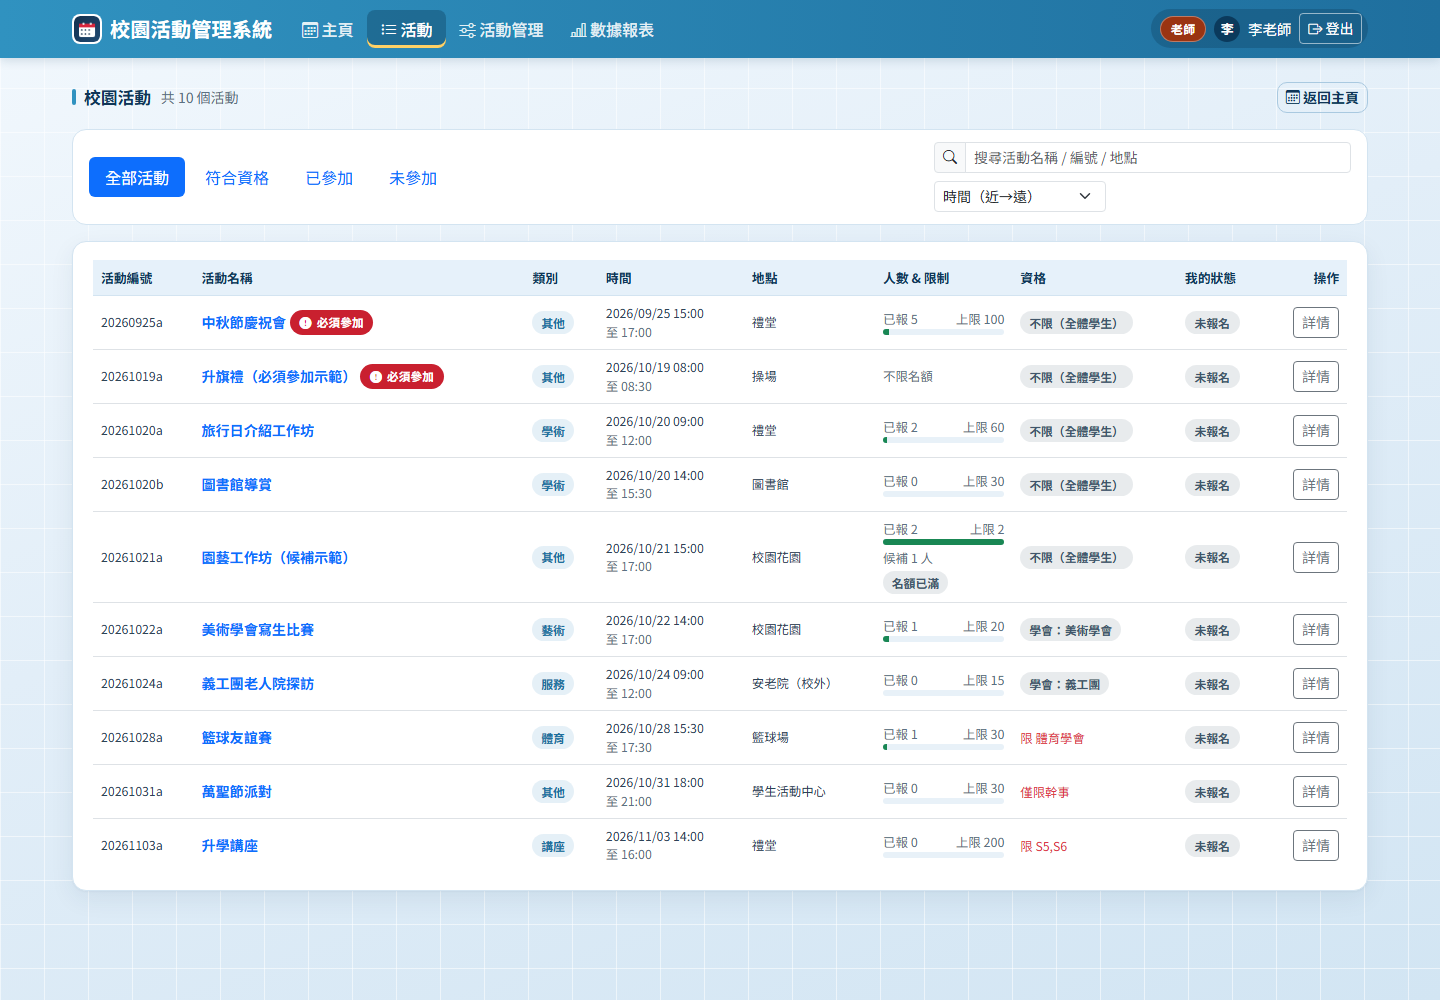
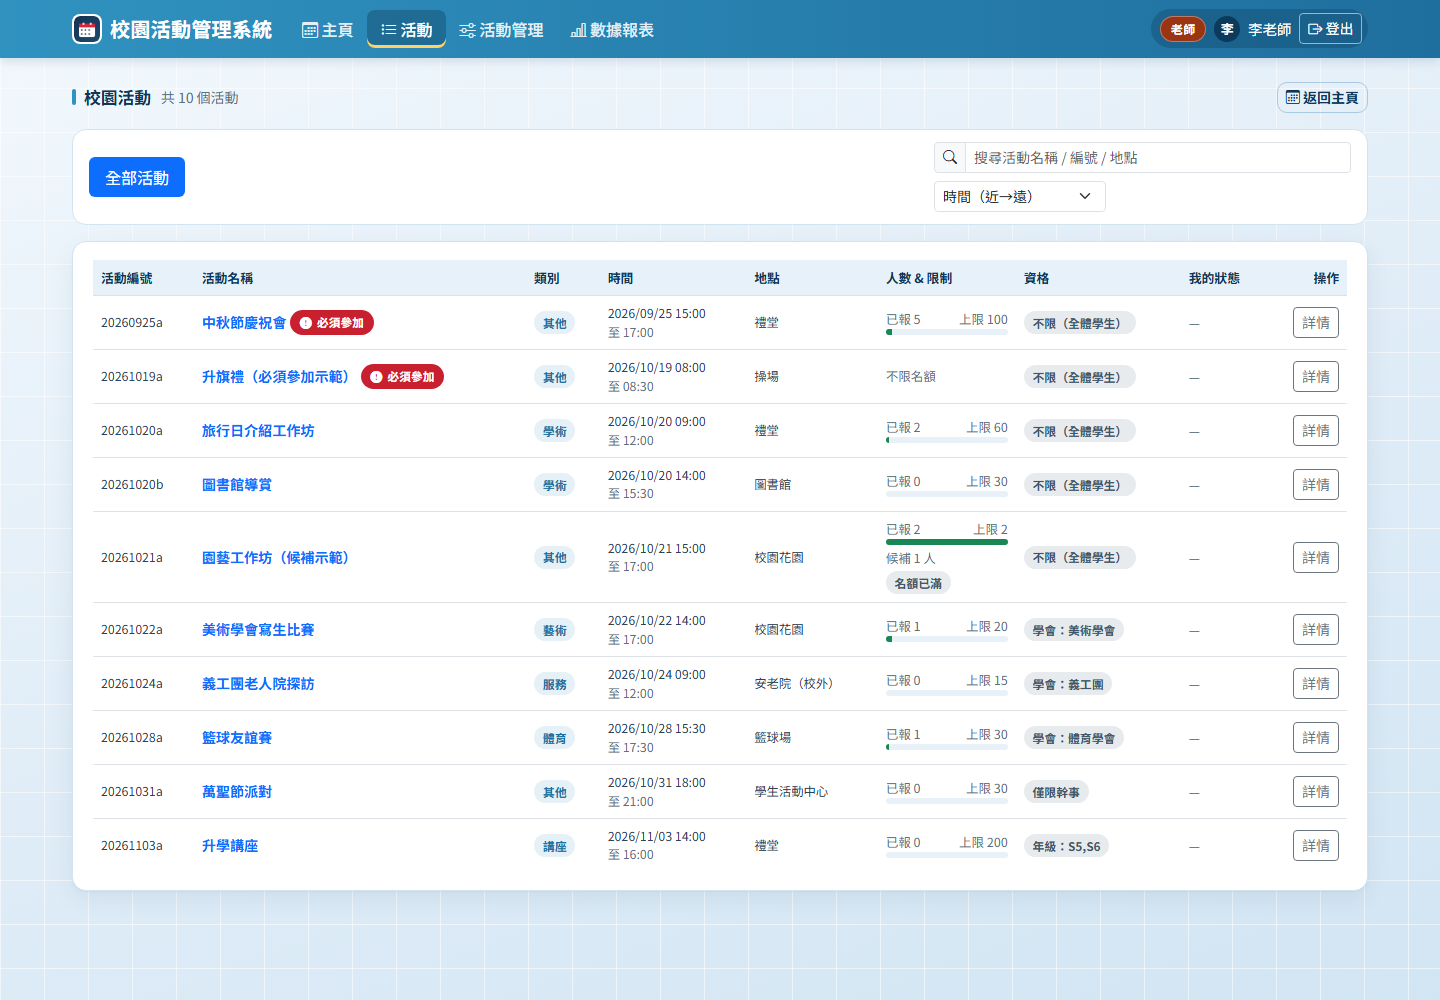
feat(v1.2.1): 老師視角統計卡與活動列表、手機版後台清單免橫向滑動、詳情頁資格文案

diff --git a/1-frontend/assets/js/event.js b/1-frontend/assets/js/event.js
@@ -214,6 +214,12 @@
     CES_UI.renderNav('events');
 
     var tabs = document.getElementById('eventTabs');
+    /* v1.2：非學生帳號沒有「報名」概念，隱藏 符合資格／已參加／未參加 三個 Tab */
+    if (tabs && !isStudentUser(user)) {
+      Array.prototype.forEach.call(tabs.querySelectorAll('[data-tab]'), function (b) {
+        if (b.getAttribute('data-tab') !== 'all') b.classList.add('d-none');
+      });
+    }
     if (tabs) {
       tabs.addEventListener('click', function (ev) {
         var btn = ev.target.closest('[data-tab]');
@@ -375,12 +381,19 @@
   }
 
   function myStatusCell(e) {
+    /* v1.2：老師／管理員不參與報名，沒有「我的狀態」 */
+    if (!isStudentUser(listState.user)) return '<span class="muted small">—</span>';
     if (!isActive(e)) return '<span class="badge-status is-cancelled">已取消</span>';
     return CES_UI.statusBadge(e.myStatus);
   }
 
   function eligibilityCell(e) {
     if (!isActive(e)) return '<span class="muted small">—</span>';
+    /* v1.2：資格限制是給學生看的；老師／管理員只顯示規則文字，不標紅「不符合資格」 */
+    if (!isStudentUser(listState.user)) {
+      var staffRules = eligibilityRules(e);
+      return '<span class="tag tag-soft" title="' + esc(staffRules) + '">' + esc(staffRules) + '</span>';
+    }
     if (e.isEligible === false) {
       var reason = e.eligibleReason || '不符合資格';
       return '<span class="small text-danger" title="' + esc(reason) + '">' + esc(reason) + '</span>';
@@ -459,11 +472,15 @@
   }
 
   function eventCardHtml(e) {
-    var statusHtml = isActive(e) ? CES_UI.statusBadge(e.myStatus) :
-      '<span class="badge-status is-cancelled">已取消</span>';
+    var statusHtml = isStudentUser(listState.user)
+      ? (isActive(e) ? CES_UI.statusBadge(e.myStatus) :
+        '<span class="badge-status is-cancelled">已取消</span>')
+      : '';
     var flags = '';
     if (isActive(e) && e.isFull) flags += '<span class="tag tag-soft">名額已滿</span>';
-    if (isActive(e) && e.isEligible === false) flags += '<span class="tag tag-soft">不符合資格</span>';
+    if (isActive(e) && isStudentUser(listState.user) && e.isEligible === false) {
+      flags += '<span class="tag tag-soft">不符合資格</span>';
+    }
 
     return '<div class="ces-card ces-event-card">' +
       '<div class="card-cover"></div>' +
@@ -629,23 +646,35 @@
         ? '<span class="badge-status is-cancelled">不符合資格</span>'
         : '<span class="badge-status is-confirmed">符合資格</span>';
 
+      var eligibilityRow;
+      if (!isStudentUser(detailState.user)) {
+        /* v1.2：老師／管理員只看到資格規則，不顯示「符合／不符合資格」 */
+        eligibilityRow = esc(eligibilityRules(e));
+      } else {
+        eligibilityRow = esc(eligibilityRules(e)) + ' ' + eligState +
+          (e.isEligible === false && e.eligibleReason
+            ? '<div class="small text-danger mt-1">' + esc(e.eligibleReason) + '</div>' : '');
+      }
+
+      var statusRow = live
+        ? '<span class="badge-status is-confirmed">' +
+          (isStudentUser(detailState.user) ? '開放報名' : '開放中') + '</span>'
+        : '<span class="badge-status is-cancelled">已取消</span>';
+
       infoBody.innerHTML =
         infoRow('活動編號', esc(e.eventID)) +
         infoRow('類別', e.category ? '<span class="tag">' + esc(e.category) + '</span>' : '<span class="muted">—</span>') +
         infoRow('參加性質', isMandatory(e) ? mandatoryBadge(e) +
           '<span class="muted small ms-2">老師點名，系統已自動報名，不可取消</span>' :
           '<span class="muted">自願報名</span>') +
-        infoRow('狀態', live ? '<span class="badge-status is-confirmed">開放報名</span>' :
-          '<span class="badge-status is-cancelled">已取消</span>') +
+        infoRow('狀態', statusRow) +
         infoRow('負責老師', esc(e.hostName || e.hostID || '—') +
           (e.hostID ? '<span class="muted small">（' + esc(e.hostID) + '）</span>' : '')) +
         infoRow('報名時間', esc(CES_UI.fmtDT(e.regStart)) + ' 至 ' + esc(CES_UI.fmtDT(e.regEnd))) +
         infoRow('活動時間', esc(CES_UI.fmtDT(e.eventStart)) + ' 至 ' + esc(CES_UI.fmtDT(e.eventEnd))) +
         infoRow('地點', esc(e.location)) +
         infoRow('名額', quotaBlockHtml(e)) +
-        infoRow('資格條件', esc(eligibilityRules(e)) + ' ' + eligState +
-          (e.isEligible === false && e.eligibleReason
-            ? '<div class="small text-danger mt-1">' + esc(e.eligibleReason) + '</div>' : '')) +
+        infoRow('資格條件', eligibilityRow) +
         infoRow('簡介', '<div class="text-break">' + description + '</div>');
     }
 

diff --git a/1-frontend/assets/js/admin.js b/1-frontend/assets/js/admin.js
@@ -320,16 +320,18 @@
           : '';
 
         return '<tr>' +
-          '<td><span class="tag tag-soft">' + esc(ev.eventID) + '</span></td>' +
+          '<td class="col-id"><span class="tag tag-soft">' + esc(ev.eventID) + '</span></td>' +
           '<td>' +
             '<div class="fw-semibold">' + esc(ev.name) + mandatoryBadge + '</div>' +
             '<div class="muted small">' + esc(ev.location || '—') +
               (ev.hostName ? ' · 負責：' + esc(ev.hostName) : '') + '</div>' +
+            '<div class="d-sm-none muted small mt-1">名額 ' + esc(quotaText) + ' · ' +
+              (active ? '開放中' : '已取消') + '</div>' +
           '</td>' +
-          '<td><span class="tag">' + esc(ev.category || '其他') + '</span></td>' +
-          '<td class="text-nowrap">' + esc(CES_UI.fmtDT(ev.eventStart)) +
+          '<td class="col-category"><span class="tag">' + esc(ev.category || '其他') + '</span></td>' +
+          '<td class="text-nowrap col-time">' + esc(CES_UI.fmtDT(ev.eventStart)) +
             '<div class="muted small">至 ' + esc(CES_UI.fmtDT(ev.eventEnd)) + '</div></td>' +
-          '<td class="text-nowrap">' + esc(CES_UI.fmtDT(ev.regStart)) +
+          '<td class="text-nowrap col-regtime">' + esc(CES_UI.fmtDT(ev.regStart)) +
             '<div class="muted small">至 ' + esc(CES_UI.fmtDT(ev.regEnd)) + '</div></td>' +
           '<td class="text-nowrap">' + esc(quotaText) + '</td>' +
           '<td>' + statusHtml + '</td>' +
@@ -861,9 +863,9 @@
             return '<tr>' +
               '<td><span class="tag tag-soft">' + esc(p.userID) + '</span></td>' +
               '<td>' + esc(p.name) + '</td>' +
-              '<td>' + esc(p.class || '—') + '</td>' +
-              '<td>' + esc(p.grade || '—') + '</td>' +
-              '<td class="text-nowrap">' + esc(CES_UI.fmtDT(p.regTime)) + '</td>' +
+              '<td class="col-class">' + esc(p.class || '—') + '</td>' +
+              '<td class="col-grade">' + esc(p.grade || '—') + '</td>' +
+              '<td class="text-nowrap col-regtime">' + esc(CES_UI.fmtDT(p.regTime)) + '</td>' +
               '<td>' + (attended
                 ? '<span class="badge-status is-confirmed">已出席</span>'
                 : '<span class="badge-status is-none">未出席</span>') + '</td>' +
@@ -892,9 +894,9 @@
             return '<tr>' +
               '<td><span class="tag tag-soft">' + esc(p.userID) + '</span></td>' +
               '<td>' + esc(p.name) + '</td>' +
-              '<td>' + esc(p.class || '—') + '</td>' +
-              '<td>' + esc(p.grade || '—') + '</td>' +
-              '<td class="text-nowrap">' + esc(CES_UI.fmtDT(p.regTime)) + '</td>' +
+              '<td class="col-class">' + esc(p.class || '—') + '</td>' +
+              '<td class="col-grade">' + esc(p.grade || '—') + '</td>' +
+              '<td class="text-nowrap col-regtime">' + esc(CES_UI.fmtDT(p.regTime)) + '</td>' +
             '</tr>';
           }).join('');
         }

diff --git a/1-frontend/admin.html b/1-frontend/admin.html
@@ -52,14 +52,14 @@
             </button>
           </div>
           <div class="table-responsive">
-            <table class="table table-ces align-middle">
+            <table class="table table-ces align-middle ces-events-table">
               <thead>
                 <tr>
-                  <th scope="col">活動編號</th>
+                  <th scope="col" class="col-id">活動編號</th>
                   <th scope="col">名稱</th>
-                  <th scope="col">類別</th>
-                  <th scope="col">活動時間</th>
-                  <th scope="col">報名時間</th>
+                  <th scope="col" class="col-category">類別</th>
+                  <th scope="col" class="col-time">活動時間</th>
+                  <th scope="col" class="col-regtime">報名時間</th>
                   <th scope="col">名額（已報/上限）</th>
                   <th scope="col">狀態</th>
                   <th scope="col">操作</th>
@@ -101,9 +101,9 @@
                 <tr>
                   <th scope="col">學號</th>
                   <th scope="col">姓名</th>
-                  <th scope="col">班級</th>
-                  <th scope="col">年級</th>
-                  <th scope="col">報名時間</th>
+                  <th scope="col" class="col-class">班級</th>
+                  <th scope="col" class="col-grade">年級</th>
+                  <th scope="col" class="col-regtime">報名時間</th>
                   <th scope="col">出席</th>
                   <th scope="col">操作</th>
                 </tr>
@@ -126,9 +126,9 @@
                 <tr>
                   <th scope="col">學號</th>
                   <th scope="col">姓名</th>
-                  <th scope="col">班級</th>
-                  <th scope="col">年級</th>
-                  <th scope="col">報名時間</th>
+                  <th scope="col" class="col-class">班級</th>
+                  <th scope="col" class="col-grade">年級</th>
+                  <th scope="col" class="col-regtime">報名時間</th>
                 </tr>
               </thead>
               <tbody id="waitlistTableBody">

diff --git a/1-frontend/assets/js/calendar.js b/1-frontend/assets/js/calendar.js
@@ -245,6 +245,10 @@
   }
 
   /* ---------- 統計卡 ---------- */
+  function isStaffAccount(u) {
+    return !!(u && u.role && u.role !== 'Student');
+  }
+
   function renderStats(data) {
     var events = Array.isArray(data.events) ? data.events : [];
     var now = data.now || nowText();
@@ -264,10 +268,39 @@
         !hasStarted(e, now);
     });
 
+    if (isStaffAccount(user)) {
+      /* v1.2：老師／管理員不報名，統計卡改成「我負責的活動」視角 */
+      var mine = events.filter(function (e) {
+        return e && e.status === 'Active' && e.hostID === user.userID;
+      });
+      var mineStarted = mine.filter(function (e) { return hasStarted(e, now); });
+      var mineOpen = mine.filter(function (e) {
+        return !hasStarted(e, now) && e.isRegOpen === true;
+      });
+      setLabel('statJoinedLabel', '我負責的活動');
+      setLabel('statUpcomingLabel', '即將舉行');
+      setLabel('statConfirmedLabel', '已開始');
+      setLabel('statTodoLabel', '報名中');
+      setText('statJoined', mine.length);
+      setText('statUpcoming', upcoming.length);
+      setText('statConfirmed', mineStarted.length);
+      setText('statTodo', mineOpen.length);
+      return;
+    }
+
+    setLabel('statJoinedLabel', '我的活動數');
+    setLabel('statUpcomingLabel', '即將舉行');
+    setLabel('statConfirmedLabel', '已報名');
+    setLabel('statTodoLabel', '待辦（可報名）');
     setText('statJoined', joined.length);
     setText('statUpcoming', upcoming.length);
     setText('statConfirmed', confirmed.length);
     setText('statTodo', todo.length);
+  }
+
+  function setLabel(id, value) {
+    var el = document.getElementById(id);
+    if (el && el.textContent !== value) el.textContent = value;
   }
 
   function setText(id, value) {

diff --git a/1-frontend/assets/css/style.css b/1-frontend/assets/css/style.css
@@ -432,4 +432,22 @@ a { text-decoration: none; }
   .ces-stat-value { font-size: 1.45rem; }
   .ces-login-form { padding: 1.5rem; }
   .badge-mandatory, .role-badge { font-size: .7rem; }
+
+  /* v1.2 手機版後台：活動清單只留 編號／名稱／名額／狀態／操作，避免要一直左右滑 */
+  .ces-events-table .col-id,
+  .ces-events-table .col-category,
+  .ces-events-table .col-time,
+  .ces-events-table .col-regtime { display: none; }
+  .ces-events-table td:last-child .btn { display: block; width: 100%; margin: .25rem 0 0 0; }
+  .ces-events-table td:last-child .btn.me-1 { margin-right: 0 !important; }
+  .ces-events-table th, .ces-events-table td { padding: .5rem .35rem; font-size: .8rem; }
+  .ces-events-table { table-layout: fixed; width: 100%; }
+  .ces-events-table th:nth-child(6), .ces-events-table td:nth-child(6),
+  .ces-events-table th:nth-child(7), .ces-events-table td:nth-child(7) { display: none; }
+  .ces-events-table td:last-child { width: 5.4rem; }
+  .ces-events-table td:last-child .btn { font-size: .74rem; padding: .3rem .35rem; }
+
+  /* v1.2 手機版後台：點名／候補名單只留 學號／姓名／出席／操作 */
+  .col-class, .col-grade, .col-regtime { display: none; }
+  .table-ces th, .table-ces td { padding: .5rem .4rem; font-size: .82rem; }
 }

diff --git a/1-frontend/dashboard.html b/1-frontend/dashboard.html
@@ -31,19 +31,19 @@
     <div class="ces-stat-grid" aria-label="我的活動統計">
       <div class="ces-stat stat-red">
         <div class="ces-stat-value" id="statJoined">—</div>
-        <div class="ces-stat-label">我的活動數</div>
+        <div class="ces-stat-label" id="statJoinedLabel">我的活動數</div>
       </div>
       <div class="ces-stat stat-amber">
         <div class="ces-stat-value" id="statUpcoming">—</div>
-        <div class="ces-stat-label">即將舉行</div>
+        <div class="ces-stat-label" id="statUpcomingLabel">即將舉行</div>
       </div>
       <div class="ces-stat stat-green">
         <div class="ces-stat-value" id="statConfirmed">—</div>
-        <div class="ces-stat-label">已報名</div>
+        <div class="ces-stat-label" id="statConfirmedLabel">已報名</div>
       </div>
       <div class="ces-stat">
         <div class="ces-stat-value" id="statTodo">—</div>
-        <div class="ces-stat-label">待辦（可報名）</div>
+        <div class="ces-stat-label" id="statTodoLabel">待辦（可報名）</div>
       </div>
     </div>
 

diff --git a/README.md b/README.md
@@ -13,7 +13,7 @@
 | **老師 Teacher** | 新增／修改／取消自己負責的活動（資格用點選式多選：班級／年級／學會，填寫時即時顯示「符合條件的學生 N 人」）→ 設定「必須參加」讓合資格學生自動報名 → 查看報名名單 → 活動開始後標記出席 → 收到每日活動提醒電郵。**老師／管理員不參與學生報名**（介面不顯示報名按鈕，後端亦會擋） |
 | **管理員 Admin** | 擁有老師全部權限，另可查看數據報表、管理所有用戶的角色（Student / Teacher / Admin） |
 
-主要功能：活動分類、活動日曆（公眾假期紅日、我主持／已報名／必須參加分色，手機可橫向滾動）、撞期警告（只警告不攔截）、候補名單自動遞補、名額控制、資格限制（班級／年級／學會／職位，**白名單點選**）、**必須參加活動（自動報名＋不能取消）**、點名時序限制（活動開始後才可點名）、權限控制（報名只限學生）、資格人數即時預覽（同一欄 OR、不同欄 AND）、數據統計圖表（出席率與出席圓餅圖只計已開始活動）、每日郵件提醒。
+主要功能：活動分類、活動日曆（公眾假期紅日、我主持／已報名／必須參加分色，手機可橫向滾動）、撞期警告（只警告不攔截）、候補名單自動遞補、名額控制、資格限制（班級／年級／學會／職位，**白名單點選**）、**必須參加活動（自動報名＋不能取消）**、點名時序限制（活動開始後才可點名）、權限控制（報名只限學生）、老師專屬主頁統計（我負責的活動／已開始／報名中）、手機版後台活動清單免橫向滑動、資格人數即時預覽（同一欄 OR、不同欄 AND）、數據統計圖表（出席率與出席圓餅圖只計已開始活動）、每日郵件提醒。
 
 ---
 
@@ -61,8 +61,8 @@ CampusEventSystem/
 | `04_运行说明.md` | 兩種啟動方式（本機示範 / 真正部署到 Google）+ 排錯 |
 | `05_API契约与数据字典.md` | **開發契約**：所有 action、請求／回應格式、錯誤碼、欄位定義 |
 | `06_GitHub实战教程.md` | 由零開始的 GitHub 實戰教程（推送、分支、PR、Actions、Pages…） |
-| `07_测试报告与验收.md` | 自動化測試結果（65/65）、手動驗收腳本、已修問題與已知限制 |
-| `screenshots/` | 21 張實際執行截圖（登入、主頁、列表、詳情、後台、點名、統計、手機版） |
+| `07_测试报告与验收.md` | 自動化測試結果（68/68）、手動驗收腳本、已修問題與已知限制 |
+| `screenshots/` | 23 張實際執行截圖（登入、主頁、列表、詳情、後台、點名、統計、手機版） |
 
 ---
 
@@ -133,7 +133,7 @@ node 4-local-demo\server.js
 
 ## 七、實際執行畫面
 
-以下截圖全部由 headless Chrome 實際操作本機示範伺服器產生（完整 21 張見 `3-docs/screenshots/`）：
+以下截圖全部由 headless Chrome 實際操作本機示範伺服器產生（完整 23 張見 `3-docs/screenshots/`）：
 
 **學生主頁（月曆 + 統計 + 即將舉行；升旗禮帶「必須參加」紅徽章）**
 
@@ -181,11 +181,19 @@ node 4-local-demo\server.js
 
 ![資格人數預覽](3-docs/screenshots/20-admin-modal-small.png)
 
+**v1.2：老師首頁統計卡改成「我負責的活動」視角**
+
+![老師首頁](3-docs/screenshots/22-teacher-dashboard.png)
+
+**v1.2：手機版後台活動清單不用左右滑**
+
+![手機版後台](3-docs/screenshots/23-mobile-admin.png)
+
 **v1.2：資格條件交集為空時給出紅色警告**
 
 ![資格交集為空](3-docs/screenshots/21-admin-eligibility-empty.png)
 
-> 測試結果：端到端 65/65 全部通過，詳見 `3-docs/07_测试报告与验收.md`。
+> 測試結果：端到端 68/68 全部通過，詳見 `3-docs/07_测试报告与验收.md`。
 
 ---
 
